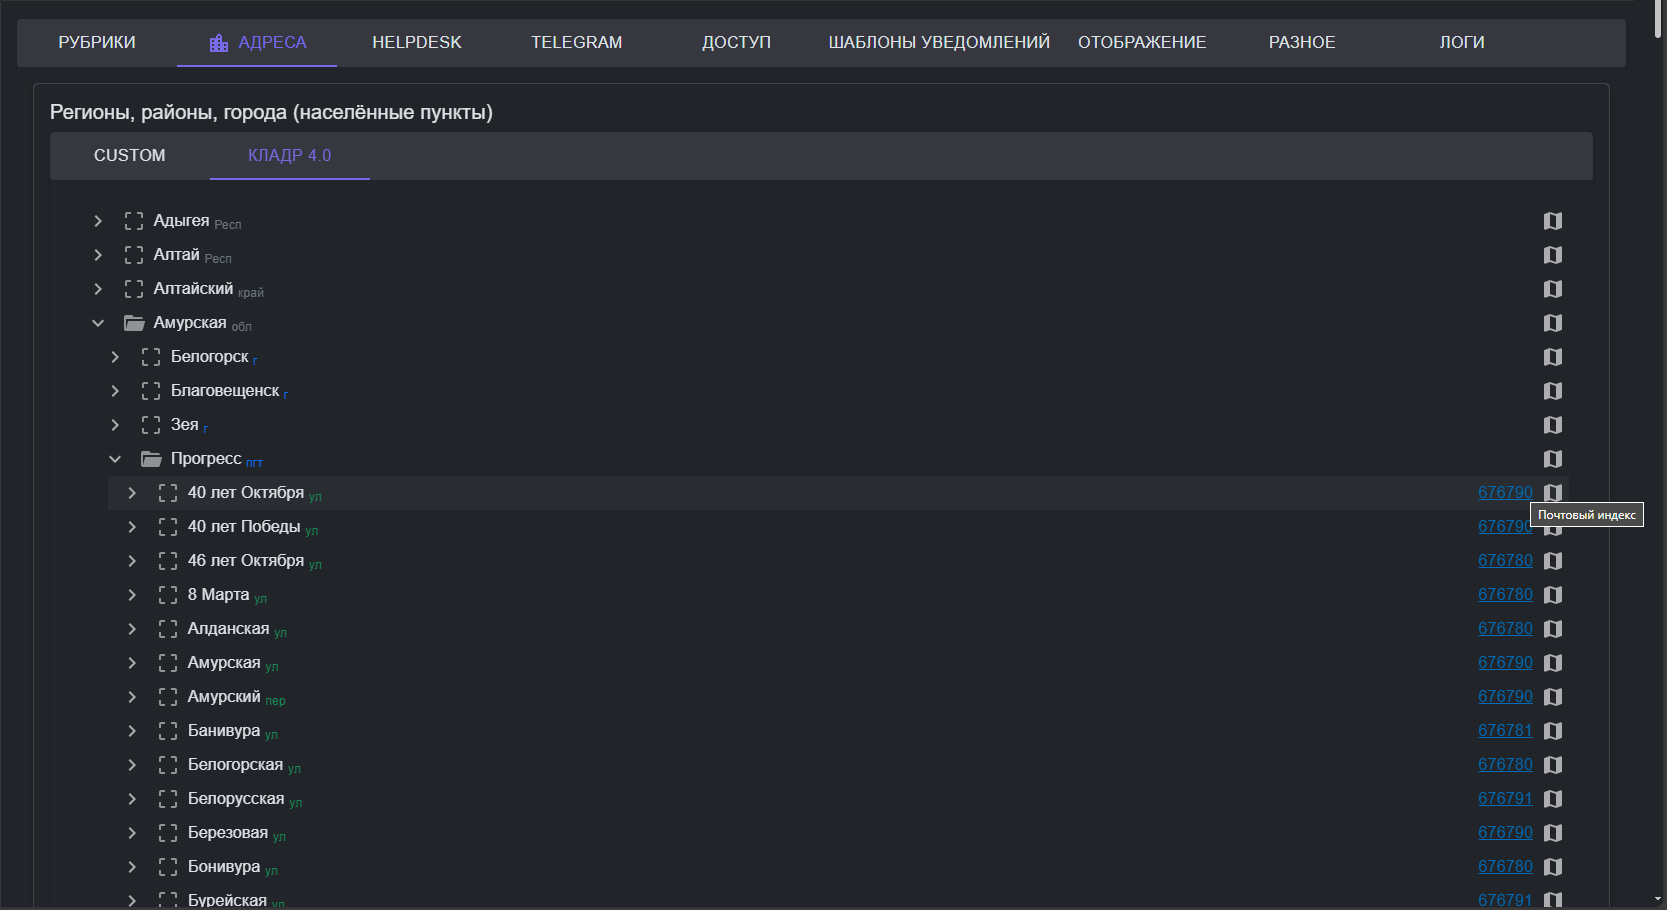
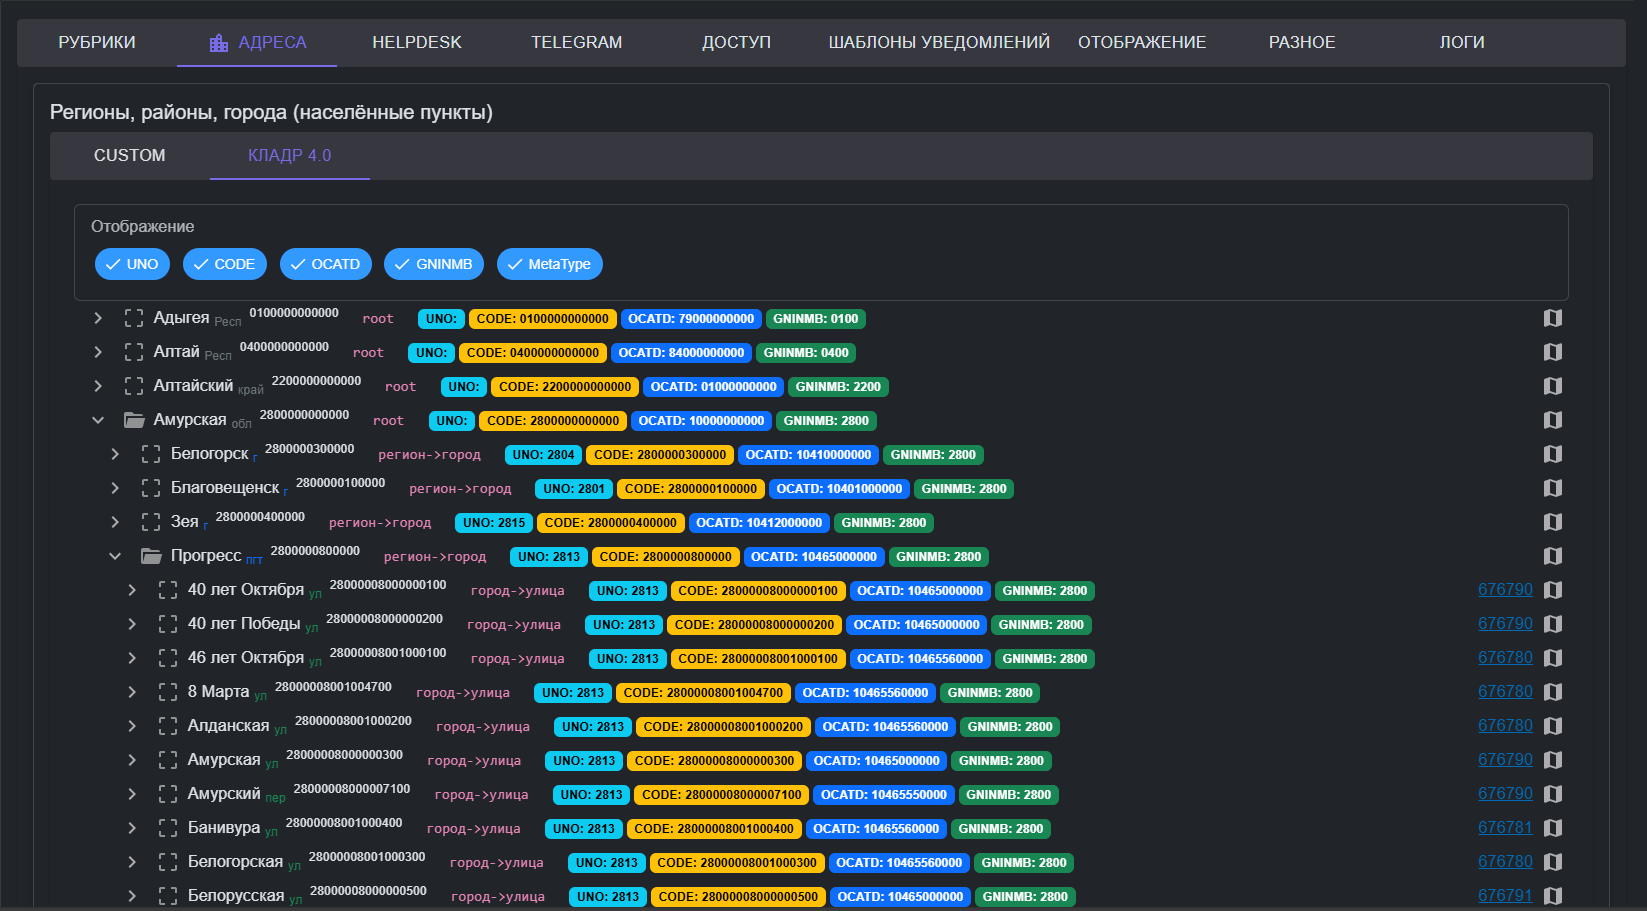
~

diff --git a/BlazorServerLib/Components/Kladr/KladrNodeComponent.razor.cs b/BlazorServerLib/Components/Kladr/KladrNodeComponent.razor.cs
@@ -40,6 +40,9 @@ public partial class KladrNodeComponent : BlazorBusyComponentBaseAuthModel
     [CascadingParameter, EditorRequired]
     public required TreeItemDataKladrModel Item { get; set; }
 
+    /// <inheritdoc/>
+    [CascadingParameter,EditorRequired]
+    public required KladrMainTreeViewSetModel KladrMainTreeView { get; set; }
 
     /// <inheritdoc/>
     protected string DomID => $"{GetType().Name}_{Item.Value!.Id}";
@@ -100,6 +103,7 @@ public partial class KladrNodeComponent : BlazorBusyComponentBaseAuthModel
     protected override void OnInitialized()
     {
         base.OnInitialized();
+        Item.Notify += EventNotify;
         if (Item.Value is ObjectMetaKLADRModel omm)
         {
             MetaType = omm.MetaType;
@@ -115,10 +119,15 @@ public partial class KladrNodeComponent : BlazorBusyComponentBaseAuthModel
         }
     }
 
+    private void EventNotify(KladrMainTreeViewSetModel message)
+    {
+        StateHasChangedCall();
+    }
 
-#if DEBUG
-    bool IsDebug = true;
-#else
-    bool IsDebug = false;
-#endif
+    /// <inheritdoc/>
+    public override void Dispose()
+    {
+        Item.Notify -= EventNotify;
+        base.Dispose();
+    }
 }

diff --git a/BlazorServerLib/Components/Kladr/KladrMainNavComponent.razor.cs b/BlazorServerLib/Components/Kladr/KladrMainNavComponent.razor.cs
@@ -36,16 +36,17 @@ public partial class KladrMainNavComponent : BlazorBusyComponentBaseModel
 
     MudTreeView<RootKLADRModelDB>? treeRef;
 
-    IReadOnlyCollection<string>? _selected;
+    KladrMainTreeViewSetModel KladrMainTreeViewSet = new();
+
     IReadOnlyCollection<string>? SelectedFieldsView
     {
-        get => _selected;
+        get => KladrMainTreeViewSet.SelectedFieldsView;
         set
         {
-            _selected = value;
+            KladrMainTreeViewSet.SelectedFieldsView = value;
             if (treeRef?.Items is not null)
                 foreach (TreeItemDataKladrModel ti in treeRef.Items.Cast<TreeItemDataKladrModel>())
-                    ti.NotifyActon("~ test");
+                    ti.NotifyActon(KladrMainTreeViewSet);
         }
     }
 

diff --git a/BlazorLib/Components/TreeItemDataKladrModel.cs b/BlazorLib/Components/TreeItemDataKladrModel.cs
@@ -13,7 +13,7 @@ namespace BlazorLib;
 public class TreeItemDataKladrModel : TreeItemData<RootKLADRModelDB?>
 {
     /// <inheritdoc/>
-    public delegate void AccountHandler(string message);
+    public delegate void AccountHandler(KladrMainTreeViewSetModel message);
     /// <inheritdoc/>
     public event AccountHandler? Notify;
 
@@ -49,7 +49,7 @@ public class TreeItemDataKladrModel : TreeItemData<RootKLADRModelDB?>
     }
 
     /// <inheritdoc/>
-    public void NotifyActon(string message)
+    public void NotifyActon(KladrMainTreeViewSetModel message)
     {
         if(Notify is not null)
             Notify(message);

diff --git a/SharedLib/Models/kladr/UploadPartTableDataModel.cs b/SharedLib/Models/kladr/UploadPartTableDataModel.cs
@@ -24,3 +24,14 @@ public class UploadPartTableDataModel
     /// </summary>
     public required string TableName { get; set; }
 }
+
+/// <summary>
+/// Настройки отображения навигационного дерева КЛАДР
+/// </summary>
+public class KladrMainTreeViewSetModel
+{
+    /// <summary>
+    /// Отображаемые поля
+    /// </summary>
+    public IReadOnlyCollection<string>? SelectedFieldsView { get; set; }
+}

diff --git a/KladrService/README.md b/KladrService/README.md
@@ -1,6 +1,7 @@
 ## КЛАДР 4.0
 
 ![kladr-main-tree.png](./img/kladr-main-tree.png)
+Отображение полей настраивается (uno,ocatd,code,gninmb). Для каждого адреса справа доступна кнопка открытия Яндекс карт и ссылка открытия почтового отделения (для тех у кого индекс установлен в КЛАДР).
 
 Загрузка данных и обработка сервером этих данных делается в три этапа:
 - Первый этап: запуск обмена - завершается довольно быстро (за несколько минут). Когда пользователь нажимает кнопку "ОТПРАВИТЬ", данные не записываются сразу в БД, а ставятся в очередь на обработку, т.е. данные фактически доставляются с клиента в удалённую систему, но удалённая служба записывает данные поочерёдно одну за одной. Каждая порция данных идёт как отдельная задача, а узел службы (либо узлы, если их несколько) обрабатывают эту очередь в меру общей производительности. 
